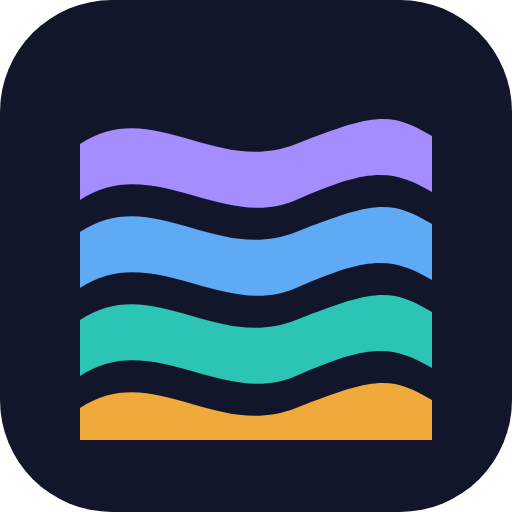
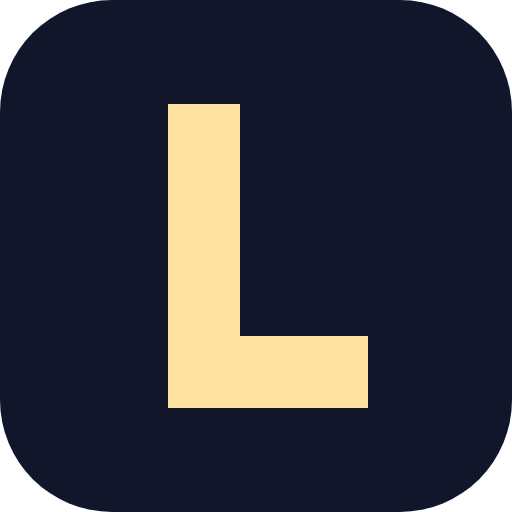
Rebrand Strata to Lumai
The site is now Lumai ("How AI works, layer by layer.") and the nine-layer
stack it teaches is the Lumai Model (Layered Understanding Model of AI),
with layers referred to as "Lumai Layer N" and L1-L9 in compact UI.

- Titles follow "Topic · Lumai"; canonical, Open Graph, Twitter, sitemap
  and robots point at https://lumai.how. New web manifest.
- Placeholder "L" mark replaces the old icon and PNGs; the social card is
  re-rendered for Lumai and the old seven-layer card is removed.
- Tagline on the landing (Z0) and in the footers.
- Light motif: zooming in sends one soft beam of light down the page,
  over the unchanged per-layer colours; skipped under reduced motion.
- Kept on purpose: GitHub repo URLs, the feed's SITE_URL default and
  urn:strata: entry ids (feed readers), and browser storage keys
  (reader preferences).

diff --git a/site/news/index.html b/site/news/index.html
@@ -5,27 +5,33 @@
   <meta name="viewport" content="width=device-width, initial-scale=1">
   <meta http-equiv="Content-Security-Policy" content="default-src 'self'; script-src 'self'; style-src 'self'; img-src 'self' data:; connect-src 'self'; base-uri 'none'; form-action 'none'">
   <meta name="referrer" content="no-referrer">
-  <title>Strata · AI news feed</title>
+  <title>AI news feed · Lumai</title>
   <meta name="description" content="The latest AI news from labs, papers and the community, refreshed every three hours and sorted by where each story fits in the AI stack.">
   <meta name="theme-color" content="#0d1020">
   <meta property="og:type" content="website">
-  <meta property="og:title" content="Strata · AI news feed">
+  <meta property="og:site_name" content="Lumai">
+  <meta property="og:title" content="AI news feed · Lumai">
   <meta property="og:description" content="The latest AI news from labs, papers and the community, refreshed every three hours and sorted by where each story fits in the AI stack.">
-  <meta property="og:url" content="https://hmussana.github.io/Strata/news/">
-  <link rel="canonical" href="https://hmussana.github.io/Strata/news/">
-  <meta property="og:image" content="https://hmussana.github.io/Strata/assets/social-card.png">
+  <meta property="og:url" content="https://lumai.how/news/">
+  <link rel="canonical" href="https://lumai.how/news/">
+  <link rel="manifest" href="../manifest.webmanifest">
+  <meta property="og:image" content="https://lumai.how/assets/social-card-stack.png">
+  <meta property="og:image:alt" content="Lumai: how AI works, layer by layer.">
   <meta name="twitter:card" content="summary_large_image">
+  <meta name="twitter:title" content="AI news feed · Lumai">
+  <meta name="twitter:description" content="The latest AI news from labs, papers and the community, refreshed every three hours and sorted by where each story fits in the AI stack.">
+  <meta name="twitter:image" content="https://lumai.how/assets/social-card-stack.png">
   <link rel="icon" href="../assets/icon.svg" type="image/svg+xml">
   <link rel="apple-touch-icon" href="../assets/icon-192.png">
-  <link rel="alternate" type="application/atom+xml" title="Strata news feed" href="../feed.xml">
+  <link rel="alternate" type="application/atom+xml" title="Lumai news feed" href="../feed.xml">
   <link rel="stylesheet" href="../assets/styles.css">
   <script type="module" src="../assets/app.js"></script>
 </head>
 <body>
   <header class="topbar">
-    <a class="brand" href="#" aria-label="Strata home">
+    <a class="brand" href="#" aria-label="Lumai news home">
       <img src="../assets/icon.svg" alt="" width="30" height="30">
-      <span><strong>Strata</strong> <span class="brand-sub">the AI stack, mapped</span></span>
+      <span><strong>Lumai</strong> <span class="brand-sub">AI news, layer by layer</span></span>
     </a>
     <div class="status" id="status" aria-live="polite">Loading…</div>
     <div class="top-actions">
@@ -34,17 +40,17 @@
         <input id="search" type="search" placeholder="Search concepts & news  ( / )" autocomplete="off">
       </label>
       <div class="search-results" id="search-results" hidden></div>
-      <a class="try-next" href="../"><span class="try-long">← The AI Stack explainer</span><span class="try-short">← Explainer</span></a>
+      <a class="try-next" href="../"><span class="try-long">← The Lumai Model explainer</span><span class="try-short">← Explainer</span></a>
       <button class="icon-btn" id="theme-toggle" type="button" aria-label="Toggle colour theme" title="Toggle theme">◐</button>
     </div>
   </header>
 
   <main>
     <section class="section news-intro" aria-labelledby="page-title">
-      <p class="eyebrow">Strata · AI news feed</p>
+      <p class="eyebrow">Lumai · AI news feed</p>
       <h1 id="page-title">The latest AI news, sorted by where it fits</h1>
-      <p>Stories from labs, papers and the community, refreshed every three hours and tagged to a layer of the stack. To learn how the pieces work, head to <a href="../">The AI Stack explainer</a>.</p>
-      <p class="small muted">This feed still files stories on Strata's earlier seven-layer map, shown further down. The explainer uses nine layers.</p>
+      <p>Stories from labs, papers and the community, refreshed every three hours and tagged to a layer of the stack. To learn how the pieces work, head to <a href="../">the Lumai Model explainer</a>.</p>
+      <p class="small muted">This feed still files stories on Lumai's earlier seven-layer news map, shown further down. The explainer uses the nine layers of the Lumai Model.</p>
     </section>
 
     <section class="section" id="news" aria-labelledby="news-title">
@@ -84,7 +90,7 @@
     <section class="section hero" id="map" aria-labelledby="map-title">
       <div class="hero-head">
         <div>
-          <p class="eyebrow">The Strata Model · an OSI model for AI</p>
+          <p class="eyebrow">The seven-layer news map · an OSI-style map for AI</p>
           <h2 id="map-title">Seven layers. <span class="grad">Every AI headline fits one.</span></h2>
         </div>
         <div class="view-toggle" role="group" aria-label="What to show on each layer">
@@ -122,6 +128,7 @@
   </main>
 
   <footer class="footer">
+    <p class="foot-tag"><strong>Lumai</strong> · How AI works, layer by layer.</p>
     <p>Concept map last reviewed <span id="reviewed">–</span>. News refreshes every 3 hours; the Radar shows what the map is missing.</p>
     <p>No trackers, no cookies, no third-party requests: your "learned" marks and last visit stay in this browser.
       <a href="../feed.xml">Atom feed</a> · <a href="https://github.com/hmussana/Strata">Source &amp; contributions</a> · Code MIT, content CC BY 4.0.</p>

diff --git a/site/index.html b/site/index.html
@@ -5,20 +5,25 @@
   <meta name="viewport" content="width=device-width, initial-scale=1">
   <meta http-equiv="Content-Security-Policy" content="default-src 'self'; script-src 'self'; style-src 'self'; img-src 'self' data:; connect-src 'self'; base-uri 'none'; form-action 'none'">
   <meta name="referrer" content="no-referrer">
-  <title>The AI Stack · Strata</title>
-  <meta name="description" content="A visual, layered explainer of the AI and LLM world, from power and chips to agents and apps, at the depth you choose.">
+  <title>Lumai · How AI works, layer by layer</title>
+  <meta name="description" content="Lumai shows how AI works, layer by layer: a visual explainer of the Lumai Model, from power and chips to agents and apps, at the depth you choose.">
   <meta name="theme-color" content="#0d1020">
-  <link rel="canonical" href="https://hmussana.github.io/Strata/">
+  <link rel="canonical" href="https://lumai.how/">
+  <link rel="manifest" href="manifest.webmanifest">
   <meta property="og:type" content="website">
-  <meta property="og:title" content="The AI Stack · Strata">
-  <meta property="og:description" content="A visual, layered explainer of the AI and LLM world, from power and chips to agents and apps, at the depth you choose.">
-  <meta property="og:url" content="https://hmussana.github.io/Strata/">
-  <meta property="og:image" content="https://hmussana.github.io/Strata/assets/social-card-stack.png">
-  <meta property="og:image:alt" content="The AI Stack by Strata: the whole AI world in nine layers, from Physical &amp; Energy up to Applications &amp; Interfaces.">
+  <meta property="og:site_name" content="Lumai">
+  <meta property="og:title" content="Lumai · How AI works, layer by layer">
+  <meta property="og:description" content="Lumai shows how AI works, layer by layer: a visual explainer of the Lumai Model, from power and chips to agents and apps, at the depth you choose.">
+  <meta property="og:url" content="https://lumai.how/">
+  <meta property="og:image" content="https://lumai.how/assets/social-card-stack.png">
+  <meta property="og:image:alt" content="Lumai: how AI works, layer by layer. The Lumai Model's nine layers, from Physical &amp; Energy up to Applications &amp; Interfaces.">
   <meta name="twitter:card" content="summary_large_image">
+  <meta name="twitter:title" content="Lumai · How AI works, layer by layer">
+  <meta name="twitter:description" content="Lumai shows how AI works, layer by layer: a visual explainer of the Lumai Model, from power and chips to agents and apps, at the depth you choose.">
+  <meta name="twitter:image" content="https://lumai.how/assets/social-card-stack.png">
   <link rel="icon" href="assets/icon.svg" type="image/svg+xml">
   <link rel="apple-touch-icon" href="assets/icon-192.png">
-  <link rel="alternate" type="application/atom+xml" title="Strata news feed" href="feed.xml">
+  <link rel="alternate" type="application/atom+xml" title="Lumai news feed" href="feed.xml">
   <link rel="stylesheet" href="next/next.css">
   <script src="next/legacy.js"></script>
   <script src="next/theme-init.js"></script>
@@ -27,9 +32,9 @@
 <body>
   <a class="skip" href="#view">Skip to content</a>
   <header class="bar">
-    <a class="brand" href="#/" aria-label="The AI Stack, landscape">
+    <a class="brand" href="#/" aria-label="Lumai home: the landscape">
       <img src="assets/icon.svg" width="28" height="28" alt="">
-      <span><strong>The AI Stack</strong><span class="brand-sub">by Strata</span></span>
+      <span><strong>Lumai</strong><span class="brand-sub">How AI works, layer by layer</span></span>
     </a>
     <nav class="crumbs" id="crumbs" aria-label="Breadcrumb"></nav>
     <div class="bar-actions">
@@ -43,6 +48,6 @@
     <main id="view" tabindex="-1"><p class="muted">Loading…</p></main>
   </div>
   <div class="sr-only" aria-live="polite" id="announce"></div>
-  <footer class="site">Pages marked draft haven't had a human review yet. <a href="news/">AI news feed</a> · <a href="feed.xml">Atom feed</a> · <a href="https://github.com/hmussana/Strata">Source &amp; contributions</a> · Code MIT, content CC BY 4.0.</footer>
+  <footer class="site"><p class="foot-tag"><strong>Lumai</strong> · How AI works, layer by layer.</p>Pages marked draft haven't had a human review yet. <a href="news/">AI news feed</a> · <a href="feed.xml">Atom feed</a> · <a href="https://github.com/hmussana/Strata">Source &amp; contributions</a> · Code MIT, content CC BY 4.0.</footer>
 </body>
 </html>

diff --git a/site/next/app.js b/site/next/app.js
@@ -1,4 +1,4 @@
-// The AI Stack: app shell. Loads content, routes between zoom levels, keeps breadcrumb + minimap in sync.
+// Lumai: app shell. Loads content, routes between zoom levels, keeps breadcrumb + minimap in sync.
 import { loadContent } from './content.js';
 import { start, href } from './router.js';
 import { prefs } from './store.js';
@@ -14,6 +14,9 @@ import { quiz } from './views/quiz.js';
 const VIEWS = { landscape, stack, layer, concept, legend, quiz };
 const $ = (s) => document.querySelector(s);
 let previous = null;
+let lastZoom = null;
+const ZOOM_DEPTH = { Z0: 0, Z1: 1, Z2: 2, Z3: 3 };
+const reducedMotion = window.matchMedia('(prefers-reduced-motion: reduce)');
 
 function notFound() {
   return {
@@ -35,7 +38,7 @@ function renderCrumbs(crumbs) {
 function renderMinimap(c, out) {
   const zoomBtn = (z, label, target) => `<a class="mm-btn" href="${target}" ${out.zoom === z ? 'aria-current="page"' : ''} title="${label}">${z}</a>`;
   const layers = c.topDown.map((l) => `<a class="mm-layer ${lclass(l)}" href="${href.layer(l.id)}" ${out.layer === l.id ? 'aria-current="location"' : ''}
-      aria-label="Layer ${l.order}: ${esc(l.name)}" title="L${l.order} · ${esc(l.name)}">${l.order}</a>`).join('');
+      aria-label="Lumai Layer ${l.order}: ${esc(l.name)}" title="L${l.order} · ${esc(l.name)}">${l.order}</a>`).join('');
   $('#minimap').innerHTML = `<div class="mm-zoom">${zoomBtn('Z0', 'Landscape', href.landscape())}${zoomBtn('Z1', 'Stack', href.stack())}</div>
     <div class="mm-label">Layers</div>${layers}`;
 }
@@ -48,13 +51,15 @@ function render(c, route) {
   main.innerHTML = out.html;
   renderCrumbs(out.crumbs);
   renderMinimap(c, out);
-  document.title = `${out.title} · The AI Stack`;
+  document.title = `${out.title} · Lumai`;
   $('#announce').textContent = `${out.title}${out.zoom ? `, zoom level ${out.zoom}` : ''}`;
   // same concept, different depth: keep focus on the depth dial; otherwise move to the new view.
   // Reset scroll before mount() so views can scroll to their own focus point.
   const sameConcept = previous?.view === 'concept' && route.view === 'concept' && previous.id === route.id;
   if (!sameConcept && previous) { window.scrollTo(0, 0); main.focus({ preventScroll: true }); }
   out.mount?.(main);
+  if (lastZoom && ZOOM_DEPTH[out.zoom] > ZOOM_DEPTH[lastZoom]) shine();
+  lastZoom = out.zoom || lastZoom;
   if (sameConcept) main.querySelector('.depth-opt[aria-checked="true"]')?.focus({ preventScroll: true });
   previous = route;
 }
@@ -81,6 +86,23 @@ function setupZoom() {
     document.querySelectorAll('.vt-target').forEach((el) => el.classList.remove('vt-target'));
     (a.closest('[data-zoom-root]') || a).classList.add('vt-target');
   });
+}
+
+// Lumai's light motif: zooming in sends a soft beam of light down through the page, like light passing through the
+// layers. It sits on top of the per-layer colours (never replaces them) and is skipped entirely under reduced motion.
+function shine() {
+  if (reducedMotion.matches) return;
+  let beam = document.querySelector('.beam');
+  if (!beam) {
+    beam = document.createElement('div');
+    beam.className = 'beam';
+    beam.setAttribute('aria-hidden', 'true');
+    beam.addEventListener('animationend', () => beam.classList.remove('is-on'));
+    document.body.append(beam);
+  }
+  beam.classList.remove('is-on');
+  void beam.offsetWidth; // restart the animation on quick successive zooms
+  beam.classList.add('is-on');
 }
 
 // Z0 fills exactly one screen: track the real height of the sticky bar (it can wrap on narrow screens)

diff --git a/site/next/views/landscape.js b/site/next/views/landscape.js
@@ -71,7 +71,7 @@ export function landscape(route, c) {
     const d = dash.layers[l.id] || {};
     const h = heat[l.id];
     const trend = showTrend && h ? `<span class="trend" title="${h.prev7} the week before">${h.d7 > h.prev7 ? '↑' : h.d7 < h.prev7 ? '↓' : '→'}</span>` : '';
-    return `<a class="land-row ${lclass(l)} ${focus === l.id ? 'vt-target is-focus' : ''}" role="listitem" href="${href.stack(l.id)}" data-zoom aria-label="Layer ${l.order}: ${esc(l.name)}. Zoom in to the stack">
+    return `<a class="land-row ${lclass(l)} ${focus === l.id ? 'vt-target is-focus' : ''}" role="listitem" href="${href.stack(l.id)}" data-zoom aria-label="Lumai Layer ${l.order}: ${esc(l.name)}. Zoom in to the stack">
       <span class="land-name">${lnum(l)}${icon(l.icon)}<span>${esc(l.name)}</span></span>
       <span class="land-players">${players(d.players)}</span>
       <span class="ind-maturity">${scoreCell(d.maturity, ind.maturity || {})}</span>
@@ -106,8 +106,8 @@ export function landscape(route, c) {
         ${explainerHtml(c)}
         <div class="intro-side">
           <div class="intro-text">
-            <h2 id="intro-title">What is Strata?</h2>
-            <p>A visual guide to how today's AI works, from the power plants and chips at the bottom to the chatbots and agents at the top.
+            <h2 id="intro-title">What is Lumai?</h2>
+            <p>Lumai (say "loo-my", from <i>lumen</i>, light) shines a light into AI's black box. It is a visual guide to how today's AI works, from the power plants and chips at the bottom to the chatbots and agents at the top.
               It's for anyone who wants the whole picture without a computer science degree, and for people who work with AI and want to see how the parts fit.</p>
           </div>
           <ol class="intro-steps">
@@ -121,8 +121,9 @@ export function landscape(route, c) {
       <header class="z0-head">
         <div>
           <p class="eyebrow">${zoomLabel('Z0')} Landscape</p>
+          <p class="tagline">How AI works, layer by layer.</p>
           <h1>The whole AI world, in nine layers</h1>
-          <p class="lede">From power plants to the apps you use; each layer builds on the one below. Select a layer to zoom in.</p>
+          <p class="lede">The Lumai Model runs from power plants to the apps you use; each layer builds on the one below. Select a layer to zoom in.</p>
         </div>
         <div class="z0-actions">${freshness(dash, c.model)}<button class="btn-ghost" type="button" data-intro="show" ${prefs.introHidden ? '' : 'hidden'}>What is this?</button><button class="btn-ghost" type="button" popovertarget="ind-info">${icon('bulb', 'ico-s')}How these are measured</button></div>
       </header>

diff --git a/site/next/next.css b/site/next/next.css
@@ -1,4 +1,4 @@
-/* The AI Stack: visual grammar.
+/* Lumai: visual grammar.
    Each layer has three tokens per theme: --lN (fill, strokes, bands), --lN-ink (text-safe, WCAG AA on bg,
    surface and soft), --lN-soft (tinted background). Colour never carries meaning alone: every use is paired
    with the layer number, icon or name. Cross-cutting concerns share one neutral (--cc) plus distinct icons. */
@@ -264,6 +264,22 @@ main:focus { outline: none; }
 .type-scale > * { margin: 4px 0; }
 
 footer.site { padding: 20px 28px 40px; color: var(--muted); font-size: .82rem; border-top: 1px solid var(--border); }
+.foot-tag { margin: 0 0 4px; color: var(--text); }
+.z0-head .tagline { margin: 0 0 2px; font-size: .95rem; font-weight: 600; color: var(--accent-ink); }
+
+/* ---------- Lumai light motif ----------
+   A soft band of light that travels down the page once when the reader zooms in (app.js shine()). It is neutral
+   light layered over the per-layer colours, never a replacement for them, and never runs under reduced motion. */
+:root { --beam: rgba(255, 226, 160, .30); --beam-blend: multiply; }
+:root[data-theme="dark"] { --beam: rgba(255, 244, 214, .16); --beam-blend: screen; }
+.beam { position: fixed; inset: 0; pointer-events: none; z-index: 40; overflow: hidden; display: none; }
+.beam.is-on { display: block; }
+.beam::before { content: ""; position: absolute; left: -10%; right: -10%; top: 0; height: 38vh;
+  background: radial-gradient(60% 50% at 50% 50%, var(--beam), transparent 70%); mix-blend-mode: var(--beam-blend);
+  transform: translateY(-40vh); }
+.beam.is-on::before { animation: lumai-beam .9s cubic-bezier(.3, .6, .3, 1) both; }
+@keyframes lumai-beam { 0% { transform: translateY(-40vh); opacity: 0; } 20% { opacity: 1; } 100% { transform: translateY(100vh); opacity: 0; } }
+@media (prefers-reduced-motion: reduce) { .beam { display: none !important; } }
 
 /* ---------- view transitions ---------- */
 ::view-transition-old(root), ::view-transition-new(root) { animation-duration: .22s; }
@@ -842,7 +858,7 @@ footer.site a { display: inline-block; padding: 5px 0; }
   .bar .brand > span { display: none; } /* logo only; the link keeps its aria-label */
 }
 
-/* landing intro: what Strata is and how to use it */
+/* landing intro: what Lumai is and how to use it */
 .intro { display: grid; grid-template-columns: minmax(0, 1.1fr) minmax(0, 1fr) auto; gap: 10px 28px; align-items: start;
   background: var(--surface); border: 1px solid var(--border); border-left: 4px solid var(--accent); border-radius: var(--radius);
   padding: 14px 18px; margin: 0 0 14px; }

diff --git a/site/next/explainer.js b/site/next/explainer.js
@@ -1,12 +1,12 @@
-// The landing explainer: a 30-second silent "film" drawn in SVG that says what Strata is, why it exists and who it
+// The landing explainer: a 30-second silent "film" drawn in SVG that says what Lumai is, why it exists and who it
 // serves. Scenes are CSS states (.ex.onN = "scene N has started"); this module only flips classes on a timer, so
 // the motion lives in next.css. Reduced motion: no autoplay and no transitions; the scene buttons still step through.
 import { esc, lclass } from './ui.js';
 
 const SCENES = [
   { ms: 4200, cap: 'Hundreds of AI stories land every week. It is hard to tell how they connect.' },
-  { ms: 4600, cap: 'Strata sorts every story into the part of the AI world it belongs to.' },
-  { ms: 4800, cap: 'Nine layers, each built on the one below: from power and chips up to the apps you use.' },
+  { ms: 4600, cap: 'Lumai sorts every story into the part of the AI world it belongs to.' },
+  { ms: 4800, cap: 'The Lumai Model: nine layers, each built on the one below: from power and chips up to the apps you use.' },
   { ms: 5200, cap: 'Open any layer to see its key ideas, and how they link, on one map.' },
   { ms: 5200, cap: 'Then pick how deep to go, from a one-minute story to the open research questions.' },
   { ms: 6500, cap: 'For curious readers, students and people who work with AI and want the whole picture.' },
@@ -83,8 +83,8 @@ function card() {
 function people() {
   const fig = (x) => `<circle cx="${x}" cy="226" r="11"/><path d="M ${x - 19} 266 a 19 19 0 0 1 38 0 z"/>`;
   return `<g class="ex-end">
-    <text class="ex-brand" x="${W / 2}" y="104">Strata</text>
-    <text class="ex-tag" x="${W / 2}" y="140">See where every AI story fits.</text>
+    <text class="ex-brand" x="${W / 2}" y="104">Lumai</text>
+    <text class="ex-tag" x="${W / 2}" y="140">How AI works, layer by layer.</text>
     ${PEOPLE.map((p, i) => {
       const x = 160 + i * 160;
       return `<g class="ex-person c-l${[9, 5, 7][i]}" data-d="${400 + i * 250}">${fig(x)}<text x="${x}" y="292">${esc(p)}</text></g>`;

diff --git a/site/next/views/stack.js b/site/next/views/stack.js
@@ -24,7 +24,7 @@ function row(l, c, focus, depth) {
   return `<article class="z1-row ${lclass(l)} ${focus === l.id ? 'is-focus vt-target' : ''}" id="row-${esc(l.id)}" data-anchor="${esc(l.id)}" data-zoom-root>
     <div class="z1-num" aria-hidden="true">L${l.order}</div>
     <div class="z1-main">
-      <h2 class="z1-title"><a href="${href.layer(l.id)}" data-zoom>${icon(l.icon)}<span>${esc(l.name)}</span><span class="sr-only">, layer ${l.order} of ${c.layers.length}. Open this layer.</span></a></h2>
+      <h2 class="z1-title"><a href="${href.layer(l.id)}" data-zoom>${icon(l.icon)}<span>${esc(l.name)}</span><span class="sr-only">, Lumai Layer ${l.order} of ${c.layers.length}. Open this layer.</span></a></h2>
       <p>${esc(l.oneLiner)}</p>
     </div>
     <div class="z1-analogy"><span class="label">Think of it as</span>${esc(l.analogy.text)}
@@ -58,11 +58,11 @@ export function stack(route, c) {
   const flowBtn = (id, label, hint) => `<button type="button" data-flow="${id}" aria-pressed="false" title="${hint}">${label}</button>`;
 
   return {
-    zoom: 'Z1', layer: focus, title: 'The AI stack',
+    zoom: 'Z1', layer: focus, title: 'The Lumai Model',
     crumbs: [{ label: 'Landscape', href: href.landscape(focus), z: 'Z0' }, { label: 'Stack', z: 'Z1' }],
     html: `<header class="view-head z1-head">
         <div>
-          <p class="eyebrow">${zoomLabel('Z1')} The stack</p>
+          <p class="eyebrow">${zoomLabel('Z1')} The Lumai Model</p>
           <h1>How the AI world is organised</h1>
           <p class="lede">Each layer builds on the one below and serves the one above. Open any layer, or follow how things move through the stack.</p>
         </div>

diff --git a/site/latest/index.html b/site/latest/index.html
@@ -5,11 +5,11 @@
   <meta name="viewport" content="width=device-width, initial-scale=1">
   <meta http-equiv="Content-Security-Policy" content="default-src 'self'; script-src 'self'; style-src 'self'; img-src 'self' data:; base-uri 'none'; form-action 'none'">
   <meta name="robots" content="noindex">
-  <link rel="canonical" href="https://hmussana.github.io/Strata/news/">
-  <title>Strata · AI news feed</title>
+  <link rel="canonical" href="https://lumai.how/news/">
+  <title>AI news feed · Lumai</title>
   <script src="redirect.js"></script>
 </head>
 <body>
-  <p>The news feed has moved to <a href="../news/">Strata's AI news feed</a>.</p>
+  <p>The news feed has moved to <a href="../news/">Lumai's AI news feed</a>.</p>
 </body>
 </html>

diff --git a/site/next/index.html b/site/next/index.html
@@ -5,11 +5,11 @@
   <meta name="viewport" content="width=device-width, initial-scale=1">
   <meta http-equiv="Content-Security-Policy" content="default-src 'self'; script-src 'self'; style-src 'self'; img-src 'self' data:; base-uri 'none'; form-action 'none'">
   <meta name="robots" content="noindex">
-  <link rel="canonical" href="https://hmussana.github.io/Strata/">
-  <title>The AI Stack · Strata</title>
+  <link rel="canonical" href="https://lumai.how/">
+  <title>Lumai · How AI works, layer by layer</title>
   <script src="redirect.js"></script>
 </head>
 <body>
-  <p>The AI Stack has moved to the <a href="../">Strata homepage</a>.</p>
+  <p>This page has moved to the <a href="../">Lumai homepage</a>.</p>
 </body>
 </html>

diff --git a/site/assets/styles.css b/site/assets/styles.css
@@ -389,8 +389,9 @@ main { padding: 0 16px; }
 .path-steps i.done { background: var(--ok); }
 .path-steps i.cur { background: var(--c, var(--accent)); outline: 1px solid var(--text); }
 .footer a { color: var(--muted); }
+.footer .foot-tag { color: var(--text); }
 
-/* ---------- Strata Model tower ---------- */
+/* ---------- seven-layer news map tower ---------- */
 .hero { margin-top: 30px; }
 .hero-head { display: flex; justify-content: space-between; align-items: flex-end; gap: 16px; flex-wrap: wrap; margin-bottom: 16px; }
 .eyebrow { text-transform: uppercase; letter-spacing: .12em; font-size: .74rem; font-weight: 700; color: var(--accent); margin: 0 0 6px; }

diff --git a/site/next/views/layer.js b/site/next/views/layer.js
@@ -47,7 +47,7 @@ export function layer(route, c) {
     zoom: 'Z2', layer: l.id, title: l.name,
     crumbs: [{ label: 'Landscape', href: href.landscape(l.id), z: 'Z0' }, { label: 'Stack', href: href.stack(l.id), z: 'Z1' }, { label: l.name, z: 'Z2' }],
     html: `<header class="layer-head vt-target ${lclass(l)}">
-        <p class="eyebrow">${zoomLabel('Z2')} ${lnum(l)} Layer ${l.order} of ${c.layers.length}</p>
+        <p class="eyebrow">${zoomLabel('Z2')} ${lnum(l)} Lumai Layer ${l.order} of ${c.layers.length}</p>
         <h1>${icon(l.icon)}${esc(l.name)}</h1>
         <p class="lede">${esc(l.oneLiner)}</p>
         ${freshness(l, c.model)}

diff --git a/site/assets/icons.js b/site/assets/icons.js
@@ -1,4 +1,4 @@
-// Minimal 24px stroke icons for the Strata Model layers. Colour comes from `currentColor`.
+// Minimal 24px stroke icons for the seven-layer news map's layers. Colour comes from `currentColor`.
 const P = {
   agent: '<rect x="5" y="8" width="14" height="11" rx="3"/><path d="M12 8V4.5"/><circle cx="12" cy="3.5" r="1"/><circle cx="9.5" cy="13" r="1.2"/><circle cx="14.5" cy="13" r="1.2"/><path d="M9.5 16.5h5M3 12v3M21 12v3"/>',
   plug: '<path d="M9 3v5M15 3v5"/><path d="M6 8h12v3a6 6 0 0 1-12 0z"/><path d="M12 17v4"/>',
